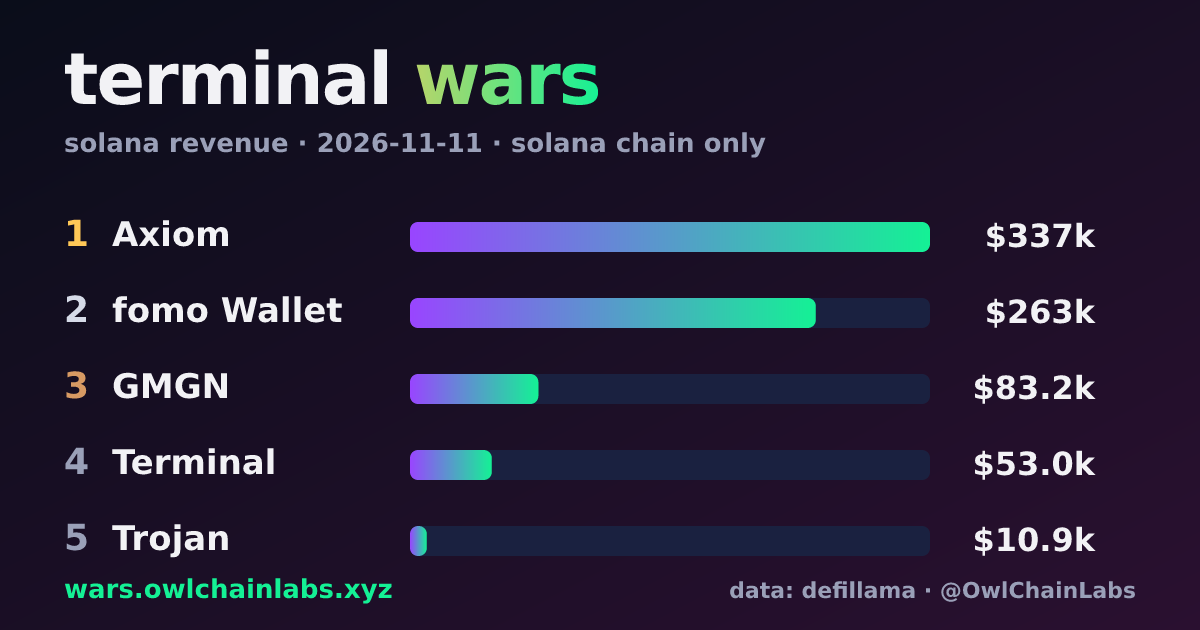
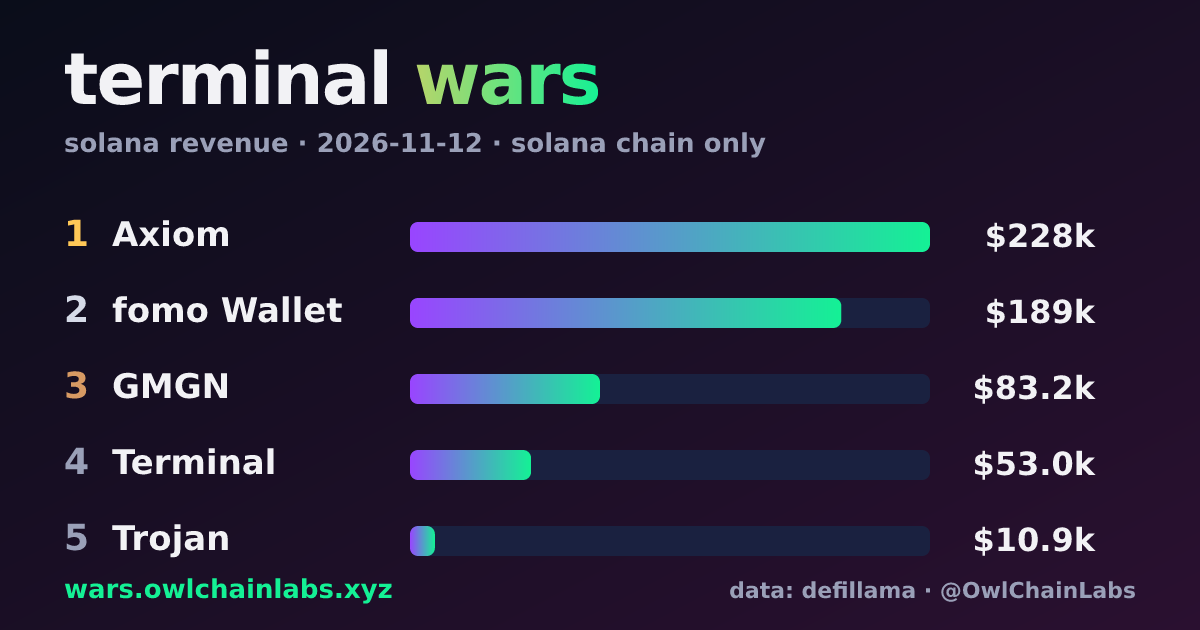
data: 2026-11-13

diff --git a/public/index.html b/public/index.html
@@ -9,8 +9,8 @@
   <meta property="og:title" content="terminal wars">
   <meta property="og:description" content="which solana trading terminal makes the most from you? daily leaderboard.">
   <meta property="og:url" content="https://wars.owlchainlabs.xyz">
-  <meta property="og:image" content="https://wars.owlchainlabs.xyz/og.png?v=2026-11-11">
-  <meta name="twitter:image" content="https://wars.owlchainlabs.xyz/og.png?v=2026-11-11">
+  <meta property="og:image" content="https://wars.owlchainlabs.xyz/og.png?v=2026-11-12">
+  <meta name="twitter:image" content="https://wars.owlchainlabs.xyz/og.png?v=2026-11-12">
   <meta name="twitter:card" content="summary_large_image">
   <meta name="twitter:site" content="@OwlChainLabs">
   <style>
